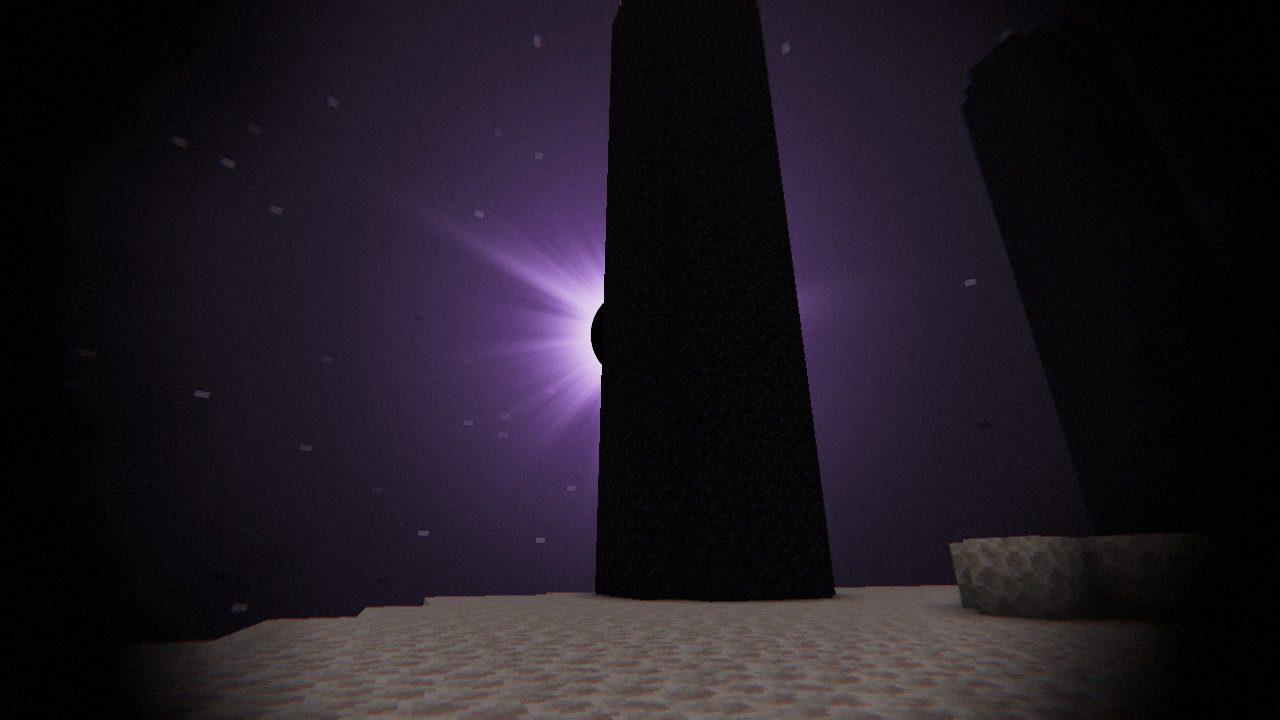
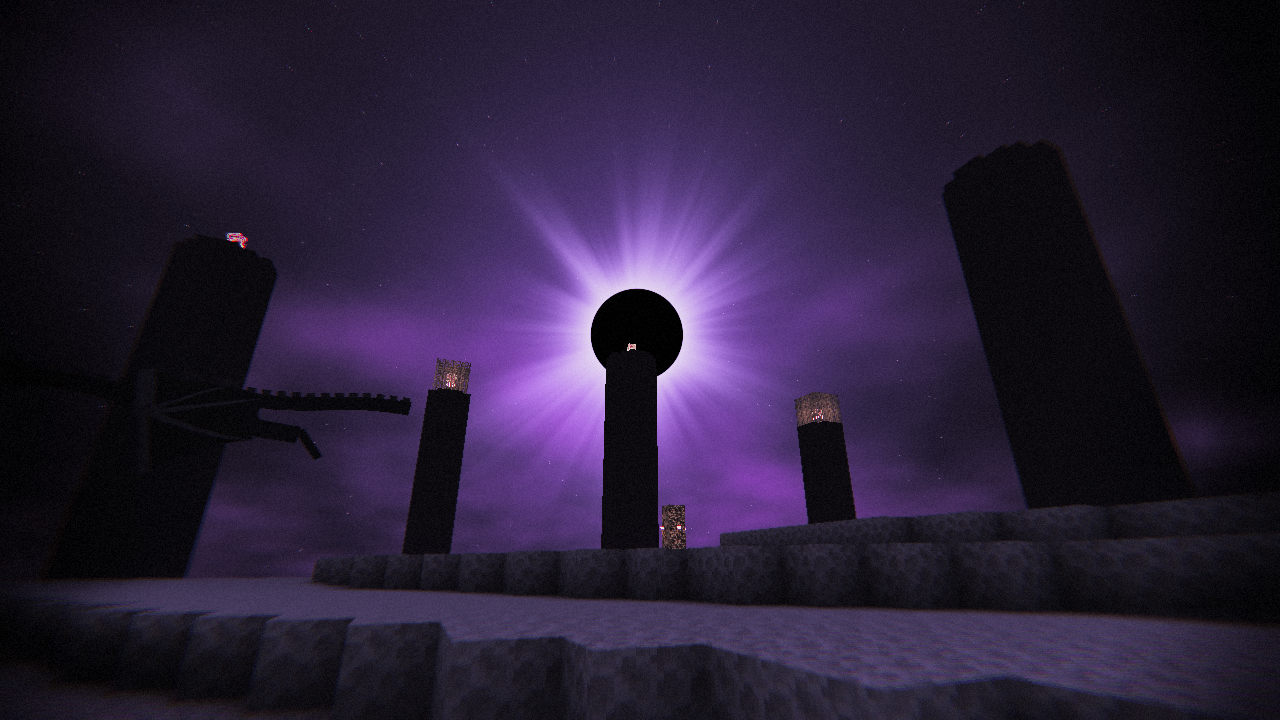
Rework the Nether and the End
Nether (no sky, no sunset): height-aware glowing haze over the lava seas, lava
bounce light on ceilings, biome hues kept by the grading.
End: drifting violet nebulae, tiny round flickering stars (were large rectangles),
violet void mist below the islands, cold lilac end stone and violet-toned grading.

Claude-Session: https://claude.ai/code/session_016CfuqkNr2Ghj5wR5GckFde

diff --git a/README.md b/README.md
@@ -12,7 +12,8 @@ All screenshots are real in-game captures (Forge 1.20.1 + Oculus 1.8.0 + Embeddi
 | ![village](docs/village.png) Village away from the sun | ![mobs](docs/mobs.png) Mobs cast long shadows |
 | ![rain](docs/rain.png) Ash rain swallows the sun | ![underwater](docs/underwater.png) Under the blood |
 | ![cave](docs/cave_torch.png) Cave, torch in hand | ![spider](docs/spider.png) Total darkness |
-| ![nether](docs/nether.png) Nether | ![end](docs/end.png) The End: eclipsed sun |
+| ![nether](docs/nether.png) Nether: haze over the lava sea | ![warped](docs/nether_warped.png) Warped forest keeps its teal |
+| ![end](docs/end.png) The End: eclipse and nebulae | ![end island](docs/end_island.png) Cold end stone, the dragon |
 | ![snow](docs/snow.png) Ash snow | ![reflections](docs/reflections.png) Ruins mirrored in the blood sea |
 | ![menu](docs/menu.png) Settings (EN/RU) | |
 
@@ -33,7 +34,10 @@ All screenshots are real in-game captures (Forge 1.20.1 + Oculus 1.8.0 + Embeddi
 - Colour drains from the world except red
 
 **Every situation**
-- Nether: lava-lit ambient, smouldering haze, embers; End: void sky with an eclipsed black sun
+- Nether: no sky, no sunset. Glowing haze hangs over the lava seas and thins out higher up; ceilings
+  catch the lava glow from below; every biome keeps its own hue (crimson, warped teal, soul blue)
+- End: eclipsed black sun with a writhing violet corona, drifting nebulae, tiny flickering stars,
+  violet void mist pooling below the islands, cold lilac end stone
 - Underwater (blood murk), in lava, in powder snow, Blindness / Darkness effects, Night Vision
 - Rain and snow as translucent ash sheets; overcast swallows the sun, fog thickens
 - Hand, glass, block entities, particles, enchantment glint, entity hurt flash handled separately
